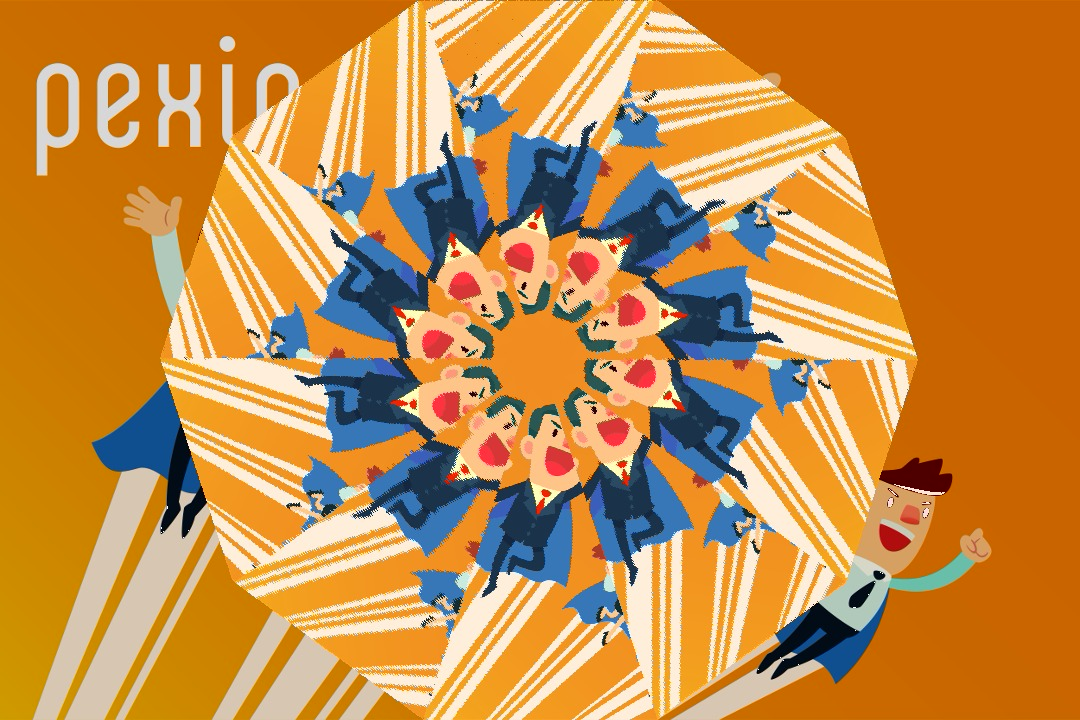
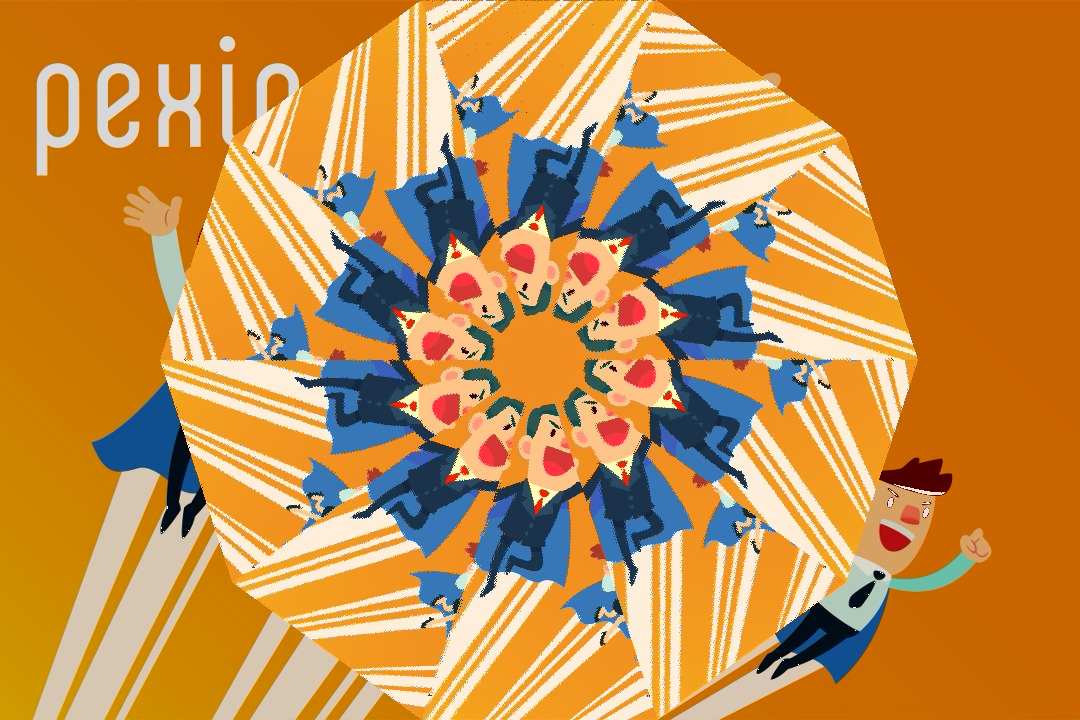
feat: Enforce aout of place execution

diff --git a/my_library.c b/my_library.c
@@ -1,5 +1,6 @@
 #include "my_library.h"
 
+#include <assert.h>
 #include <math.h>
 #include <stdio.h>
 #include <stdlib.h>
@@ -12,9 +13,7 @@
  */
 void kaleidoscope(uint8_t *yuvbuf_in, int width, int height,
                   uint8_t *yuvbuf_out, int n_sectors) {
-  /* Buffers: We an input image to copy pixels from during the execution of the 
-  filter algorithm. if we need to execute it in place we will be needing a temp 
-  copy of the input image */
+  // Buffers
   int buf_size = width * height * 3 / 2;
   memmove(yuvbuf_out, yuvbuf_in, buf_size);
 
@@ -25,9 +24,9 @@ void kaleidoscope(uint8_t *yuvbuf_in, int width, int height,
 
   // Luminocity and color channels
   uint8_t y, u, v;
-  int f_dim = 40; // Dimming factor
+  int f_dim = 40; // Preset dimming factor
 
-  // Coordinates for the bottom triangle
+  // 6 o'clock triangle
   double fi = 2 * M_PI / n_sectors; // Triangle top angle
   int height_mid = height / 2;
   int width_mid = width / 2;
@@ -35,54 +34,68 @@ void kaleidoscope(uint8_t *yuvbuf_in, int width, int height,
   int h_dst;        // Destination pixel height
   int w_dst;        // Destination pixel width
 
-  // 1. Dim the output image. Copied pixesl from the input will be bright anyway
+  /****************************************************************************
+   * >>====---------------           PIPELINE           ---------------====<< *
+   ****************************************************************************/
+
+  // 0. Enforce out of place execution of the filter's algorithm
+  if (yuvbuf_in == yuvbuf_out) {
+    uint8_t *yuvbuf_in_2 = (uint8_t *)malloc(buf_size);
+    assert(yuvbuf_in_2);
+    memmove(yuvbuf_in_2, yuvbuf_in, buf_size);
+    yuvbuf_in = yuvbuf_in_2;
+  }
+
+  // 1. Dim the image
   dim_image(yuvbuf_out, width, height, f_dim);
 
-  /* 2. Shrink the main triangle to create the basic 6 o' clock kaleidoscope
+  /* 2. SHRINK: The main triangle to create the basic 6 o' clock kaleidoscope
   triangle. Construction of the triangle is performed in a bottom up fashion.
-  Shrinking is implemented by skipping every second pixel in the height
-  dimension of the original triangle. Note that for a nested result we could
-  do it a top/bottom approach */
+  Vertical shrinking is implemented by skipping every second pixel in the height
+  dimension of the original triangle. A schematic of the geometry is included in
+  the README.md */
   for (int h = height - 1; h >= 0; h -= 2) {
 
     // Split the base of the triangle in two halfs by using half of top angle
     width_length = h * tan(fi / 2);
 
-    // Width shrinking by skipping every second pixel in  width dimension
+    // Horizontal shrinking by skipping every second pixel in  width dimension
     for (int w = width_mid - width_length; w <= width_mid + width_length;
          w += 2) {
 
-      // Get the YUV values of the pixel from the main triangle
+      /* Get the YUV values of the pixel from the main triangle. These are 
+      bright since they are comming from the input image */
       uv_idx = (h / 2) * (width / 2) + (w / 2);
       y = yuvbuf_in[h * width + w];
       u = yuvbuf_in[u_off + uv_idx];
       v = yuvbuf_in[v_off + uv_idx];
 
-      // Calculate the coordinates for the 6 o'clock triangle
+      // Calculate the coordinates of 6 o'clock triangle's respective position
       h_dst = height_mid + h / 2;
       w_dst = width_mid + (w - width_mid) / 2;
 
-      // Assign pixel values to the 6 o'clock triangle
+      // Copy pixel value to 6 o'clock triangle
       uv_idx = (h_dst / 2) * (width / 2) + (w_dst / 2);
       yuvbuf_out[h_dst * width + w_dst] = y;
       yuvbuf_out[u_off + uv_idx] = u;
       yuvbuf_out[v_off + uv_idx] = v;
 
-      // 3. Clone the pixel to all other sectors
+      // 3. ROTATE: Clone the pixel to all other sectors by rotation
       clone_pixel(yuvbuf_out, width, height, w_dst, h_dst, fi, n_sectors, y, u,
                   v, u_off, v_off);
     } // End inner for
   }   // End outer for
 }
 
-//*****************************************************************************
-// Helper functions
-//*****************************************************************************
+/******************************************************************************
+ *                              Helper functions                              *
+ ******************************************************************************/
 
 /**
- * clone_sectors
+ * clone_pixel
  *
- * Copies every pixel of the scaled down triangle to the rest of the sectors
+ * Copies a pixel to all requested sectors by pivoting around the center of the
+ * image
  */
 void clone_pixel(uint8_t *yuvbuf, int width, int height, int w, int h,
                  double fi, int n_sectors, int y, int u, int v, int u_off,
@@ -93,36 +106,45 @@ void clone_pixel(uint8_t *yuvbuf, int width, int height, int w, int h,
   int w_dst;    // Destination pixel width coordinate
   int uv_idx;   // Index alignment within the YUV frame
 
-  // 1. Shift origin from top left to the middle of the image
+  // Shift the coordinates origin from top left to the middle of the image
   h = h - height / 2;
   w = w - width / 2;
 
-  // 2. Get the polar coordinates in respect to the middle of the image
+  // Convert the pixel's cartesian coordinates (h, w) to polar (r, θ)
   r = sqrt(w * w + h * h);
   theta = atan2(h, w);
 
-  /* For all the sectors except the first one, multiplied by a factor of 2 for
-  optimising color smoothness and in conjunction with with the considerations
-  item as described in item (6) below */
+  /* For all the sectors except the first one (multiplied by a factor of 2 for
+  enhancing image smoothness */
   for (int s = 1; s < n_sectors * 2; ++s) {
 
-    // 3. Add the rotation factor to the angle and covering all quadrants
+    // Add the rotation factor to the angle while covering all quadrants
     theta = (s % 2 != 0) ? theta + fi * s : theta - fi * s;
 
-    // 4. Convert from polar back to cartesian and print pixel at new position
+    // Convert coordinates from polat back to cartesian readjusting the origin
     h_dst = r * sin(theta) + height / 2;
     w_dst = r * cos(theta) + width / 2;
 
-    /* 6. Write each pixel in other sectors at the respective place and in
-    close proximity to avoid trigonometric function pitholes occuring at π/2 */
+    // Set new pixel value at the rotated position
     for (int i = 0; i < 3; ++i) {
       uv_idx = (h_dst / 2) * (width / 2) + (w_dst / 2);
       yuvbuf[h_dst * width + w_dst] = y;
       yuvbuf[u_off + uv_idx] = u;
       yuvbuf[v_off + uv_idx] = v;
-      --h_dst; // Painting the neighbor pixels as well on each iteration
-      --w_dst;
-      // Check we do not cross the image size boundaries
+
+      // Painting some neighbor pixels as well for smoothing
+      if (i % 2 == 0) {
+        --h_dst;
+        --w_dst;
+      } else if (i % 3 == 0) {
+        --h_dst;
+        ++w_dst;
+      } else {
+        ++h_dst;
+        --w_dst;
+      } // End if / else
+
+      // Check we do not cross the image boundaries
       if (h_dst < 1 || h_dst > height - 1 || w_dst < 1 || w_dst > width - 1) {
         break;
       }
@@ -133,8 +155,8 @@ void clone_pixel(uint8_t *yuvbuf, int width, int height, int w, int h,
 /**
  * dim_image
  *
- * Dim all pixels of the input buffer by the factor using just the Luminance
- * channel Y value
+ * Dim all pixels of the input image according to the dimming factor by adjusting
+ * the luminance channel (Y) value
  */
 void dim_image(uint8_t *yuvbuf, int width, int height, int f_dim) {
   for (int h = 0; h < height; ++h) {

diff --git a/README.md b/README.md
@@ -1,12 +1,12 @@
 # Imageloader
 
-![Kaleidoscope](out-example.jpg)
-
 Simple program to load a JPEG file, manipulate the data (YUV I420), and store the result as a JPEG file.
+
+- Depends on libjpeg
 
 - A kaleidoscope effect is included in my_library
 
-- Depends on libjpeg
+![Kaleidoscope](out-example.jpg)
 
 ## Install libjpeg
 - On Debian run `sudo apt-get install libjpeg-dev`
@@ -14,9 +14,9 @@ Simple program to load a JPEG file, manipulate the data (YUV I420), and store th
 - On windows follow the instructions [here](http://gnuwin32.sourceforge.net/packages/jpeg.htm)
 
 ## Running the program
-Cd to project root and run `make`
+Cd to project root and run: `make`
 
-Then run `./imageloader <input.jpg> <out.jpg>`
+Then run: `./imageloader <input.jpg> <out.jpg>`
 
 ## Kaleidoscope video effect
 
@@ -37,8 +37,8 @@ I420 YUV pixel format is explained in this [link](https://www.fourcc.org/pixel-f
 #endif
 ```
 
-- The kaleidoscope effect is implemented in the function `kaleidoscope` that is declared `my_library.h` and defined in `my_library.c`. Further, helper functions are used and defined after `kaleidoscope`.
+- The kaleidoscope effect is implemented in the function `kaleidoscope` that is declared `my_library.h` and defined in `my_library.c`. Further, helper functions are used and defined after the `kaleidoscope` function.
 
-- The the main triangle and the basic 6 o' clock triangle of the kaleidoscope that are used during shrinking are shown below.
+- The the main triangle and the basic 6 o' clock triangle of the kaleidoscope that are used during shrinking and rotating are shown below.
 
 ![Trigonometry](schematic.png)
